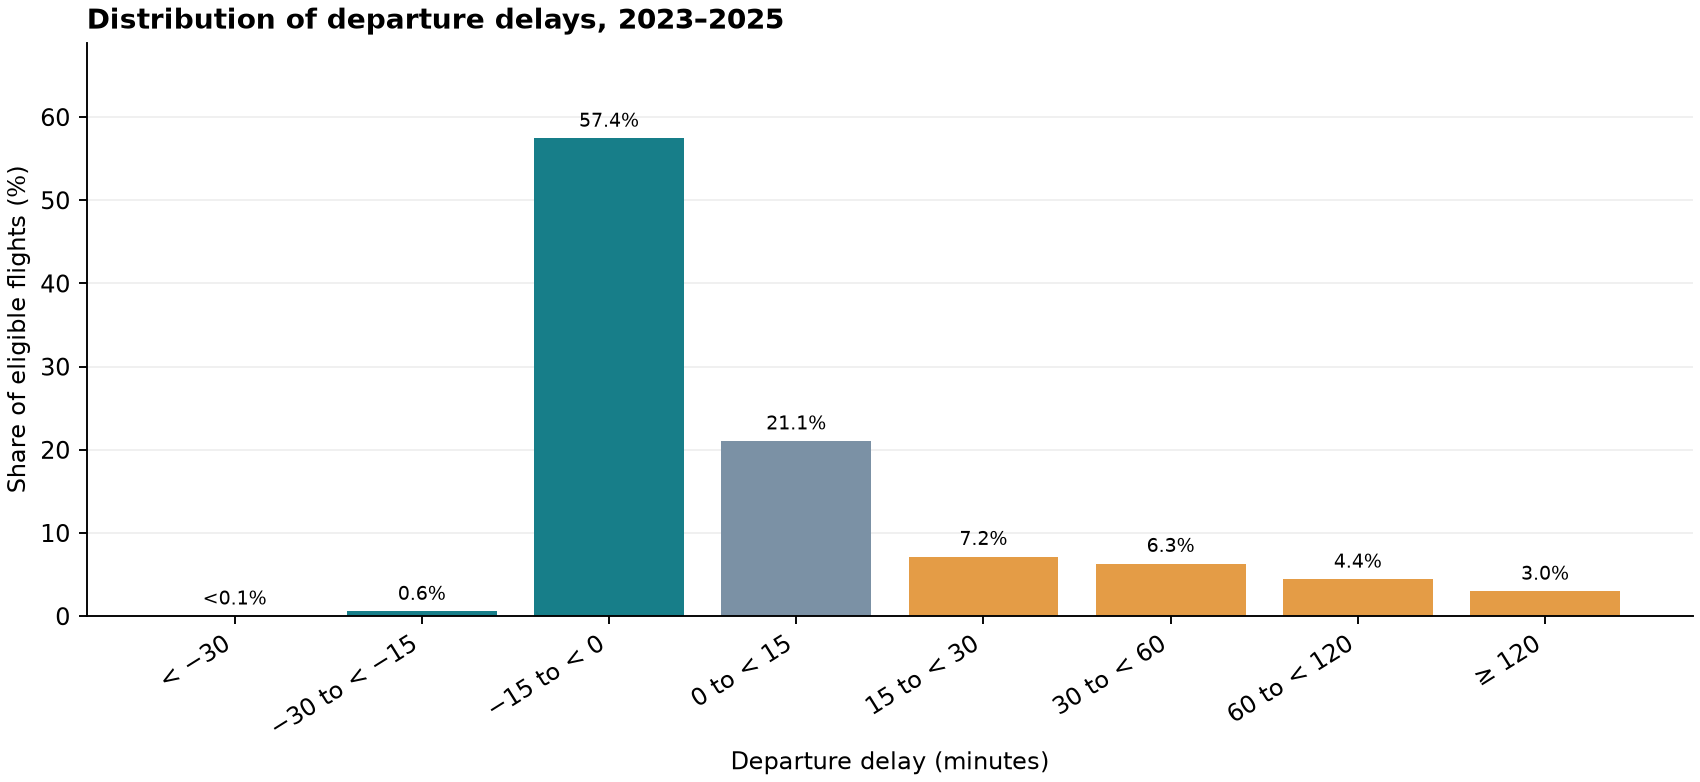
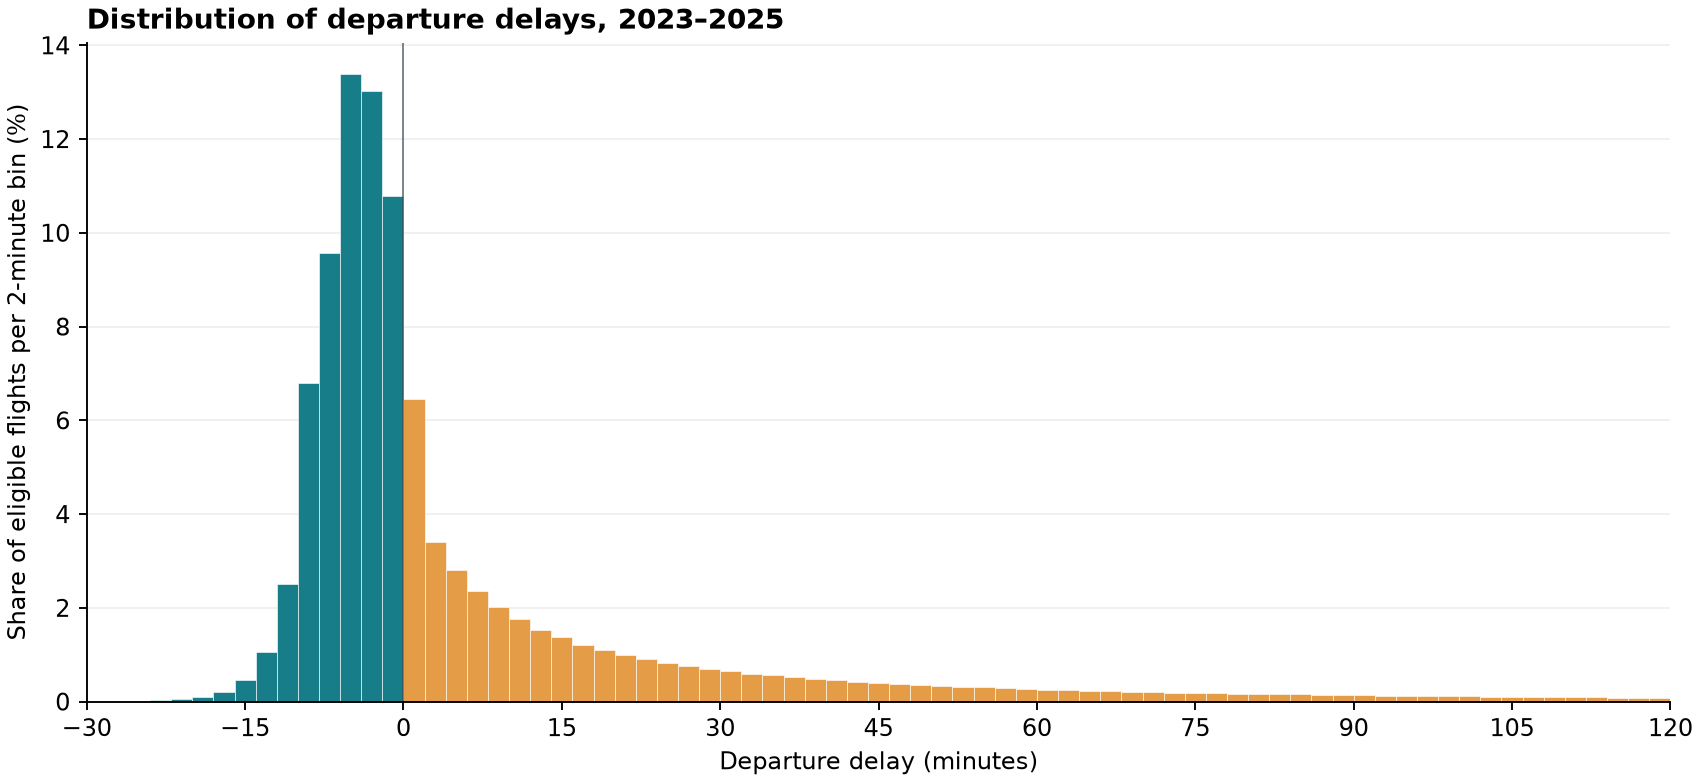
Show departure delays in two-minute bins

diff --git a/src/create_summary.py b/src/create_summary.py
@@ -20,18 +20,16 @@ def main():
     if len(paths)!=36 or len(masters)!=36:raise RuntimeError('Expected 36 complete modeling and master partitions.')
     f=pl.scan_parquet(paths, hive_partitioning=True).select('FlightDate','Origin','CRSDepTime','departure_delay_minutes','year','month')
     d=pl.col('departure_delay_minutes');hour=(pl.col('CRSDepTime').cast(pl.Int32,strict=False)//100)%24
-    basic=f.select(pl.len().alias('n'),d.mean().alias('mean'),d.median().alias('median'),d.quantile(.9).alias('p90'),(d<0).sum().alias('early'),(d>=15).sum().alias('late15')).collect(engine='streaming').row(0,named=True)
-    bounds=[-30,-15,0,15,30,60,120]
-    labels=['< −30','−30 to < −15','−15 to < 0','0 to < 15','15 to < 30','30 to < 60','60 to < 120','≥ 120']
-    category=pl.when(d<bounds[0]).then(pl.lit(0))
-    for i,b in enumerate(bounds[1:],1):category=category.when(d<b).then(pl.lit(i))
-    category=category.otherwise(pl.lit(len(bounds))).alias('bin')
-    bins=f.select(category).group_by('bin').len().sort('bin').collect(engine='streaming')
-    data={r['bin']:r['len'] for r in bins.to_dicts()}; n=basic['n']; values=[data.get(i,0)*100/n for i in range(len(labels))]
+    basic=f.select(pl.len().alias('n'),d.mean().alias('mean'),d.median().alias('median'),d.quantile(.9).alias('p90'),(d<0).sum().alias('early'),(d>=15).sum().alias('late15'),(d< -30).sum().alias('below_window'),(d>=120).sum().alias('above_window')).collect(engine='streaming').row(0,named=True)
+    # Two-minute bins cover [-30, 120); tails are counted separately below.
+    bins=(f.filter((d >= -30)&(d < 120)).select(((d/2).floor().cast(pl.Int32)*2).alias('bin')).group_by('bin').len().sort('bin').collect(engine='streaming'))
+    data={r['bin']:r['len'] for r in bins.to_dicts()}; n=basic['n']
+    edges=list(range(-30,120,2)); values=[data.get(i,0)*100/n for i in edges]
     plt.rcParams.update({'font.size':10,'axes.spines.top':False,'axes.spines.right':False,'figure.facecolor':'white'})
     fig,ax=plt.subplots(figsize=(10,4.6),layout='constrained')
-    bars=ax.bar(range(len(labels)),values,color=['#177e89']*3+['#7b91a5']+['#e49c46']*4)
-    ax.set_xticks(range(len(labels)),labels,rotation=32,ha='right');ax.set_ylabel('Share of eligible flights (%)');ax.set_xlabel('Departure delay (minutes)');ax.set_title('Distribution of departure delays, 2023–2025',loc='left',weight='bold');ax.bar_label(bars,labels=[('<0.1%' if 0 < v < 0.05 else f'{v:.1f}%') for v in values],padding=3,fontsize=8);ax.set_ylim(0,max(values)*1.2);ax.grid(axis='y',alpha=.2);ax.set_axisbelow(True)
+    ax.bar(edges,values,width=2,align='edge',color=['#177e89' if i<0 else '#e49c46' for i in edges],edgecolor='white',linewidth=.25)
+    ax.axvline(0,color='#384b56',linewidth=.8,alpha=.7)
+    ax.set_xlim(-30,120);ax.set_xticks(range(-30,121,15));ax.set_ylabel('Share of eligible flights per 2-minute bin (%)');ax.set_xlabel('Departure delay (minutes)');ax.set_title('Distribution of departure delays, 2023–2025',loc='left',weight='bold');ax.grid(axis='y',alpha=.2);ax.set_axisbelow(True)
     fig.savefig(OUT/'delay_distribution.png',dpi=170);plt.close(fig)
     hourly=f.with_columns(hour.alias('hour')).filter(pl.col('hour').is_not_null()).group_by('hour').agg(pl.len().alias('n'),d.mean().alias('mean'),(d>=15).mean().alias('late_rate')).sort('hour').collect(engine='streaming')
     fig,ax=plt.subplots(figsize=(9,4.2),layout='constrained'); ax.plot(hourly['hour'],[r['mean'] if r['n']>=1000 else float('nan') for r in hourly.to_dicts()],marker='o',lw=2,color='#177e89');ax.set_xticks(range(0,24,2));ax.set_xlabel('Scheduled departure hour (local airport time)');ax.set_ylabel('Mean departure delay (minutes)');ax.set_title('Departure delay by scheduled hour',loc='left',weight='bold');ax.grid(alpha=.2);fig.savefig(OUT/'delay_by_hour.png',dpi=170);plt.close(fig)
@@ -56,7 +54,7 @@ The figures use **{n:,} eligible non-cancelled flights** in the 2023–2025 mode
 
 ![Distribution of departure delays](reports/figures/delay_distribution.png)
 
-All observed delays are included in the distribution; the first and last bars are open-ended. The 15-minute threshold is a descriptive convention.
+The chart uses two-minute bins from −30 to under 120 minutes, with percentages calculated over all eligible flights. The unplotted tails contain {basic['below_window']:,} flights below −30 minutes ({100*basic['below_window']/n:.3f}%) and {basic['above_window']:,} flights at 120 minutes or more ({100*basic['above_window']/n:.2f}%). These flights remain included in the summary statistics and dataset.
 
 ![Mean departure delay by scheduled local hour](reports/figures/delay_by_hour.png)
 

diff --git a/README.md b/README.md
@@ -17,7 +17,7 @@ The figures use **20,420,136 eligible non-cancelled flights** in the 2023–2025
 
 ![Distribution of departure delays](reports/figures/delay_distribution.png)
 
-All observed delays are included in the distribution; the first and last bars are open-ended. The 15-minute threshold is a descriptive convention.
+The chart uses two-minute bins from −30 to under 120 minutes, with percentages calculated over all eligible flights. The unplotted tails contain 960 flights below −30 minutes (0.005%) and 609,906 flights at 120 minutes or more (2.99%). These flights remain included in the summary statistics and dataset.
 
 ![Mean departure delay by scheduled local hour](reports/figures/delay_by_hour.png)
 
